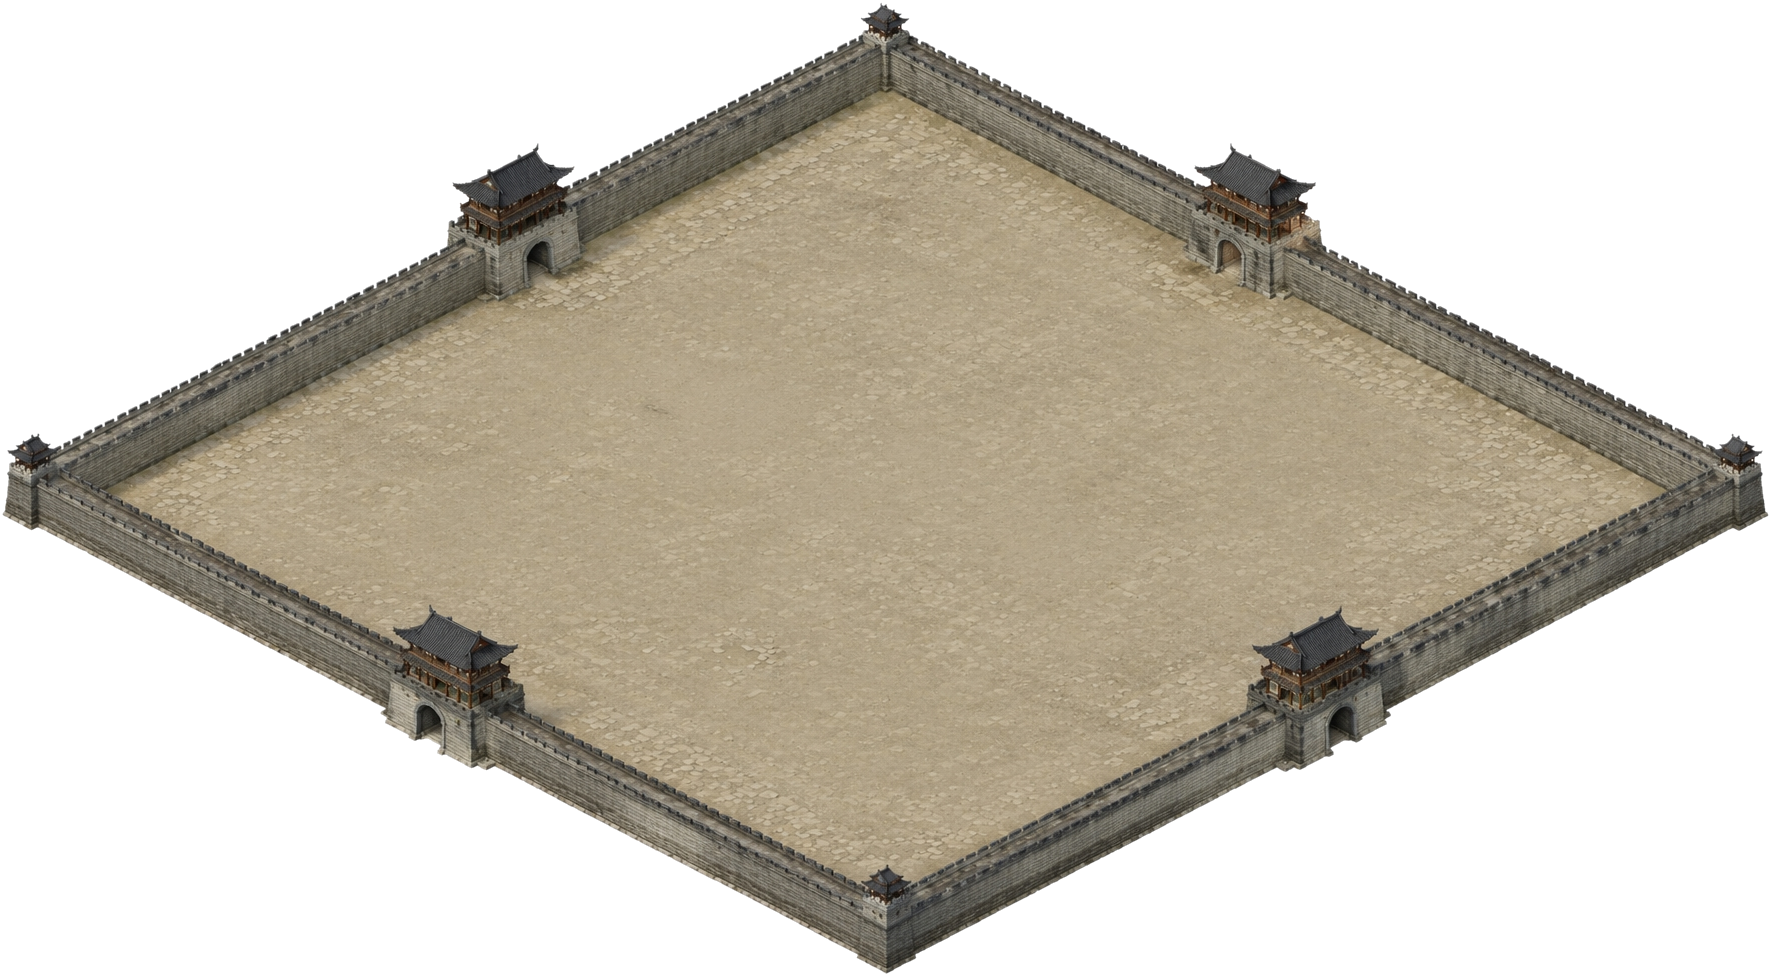
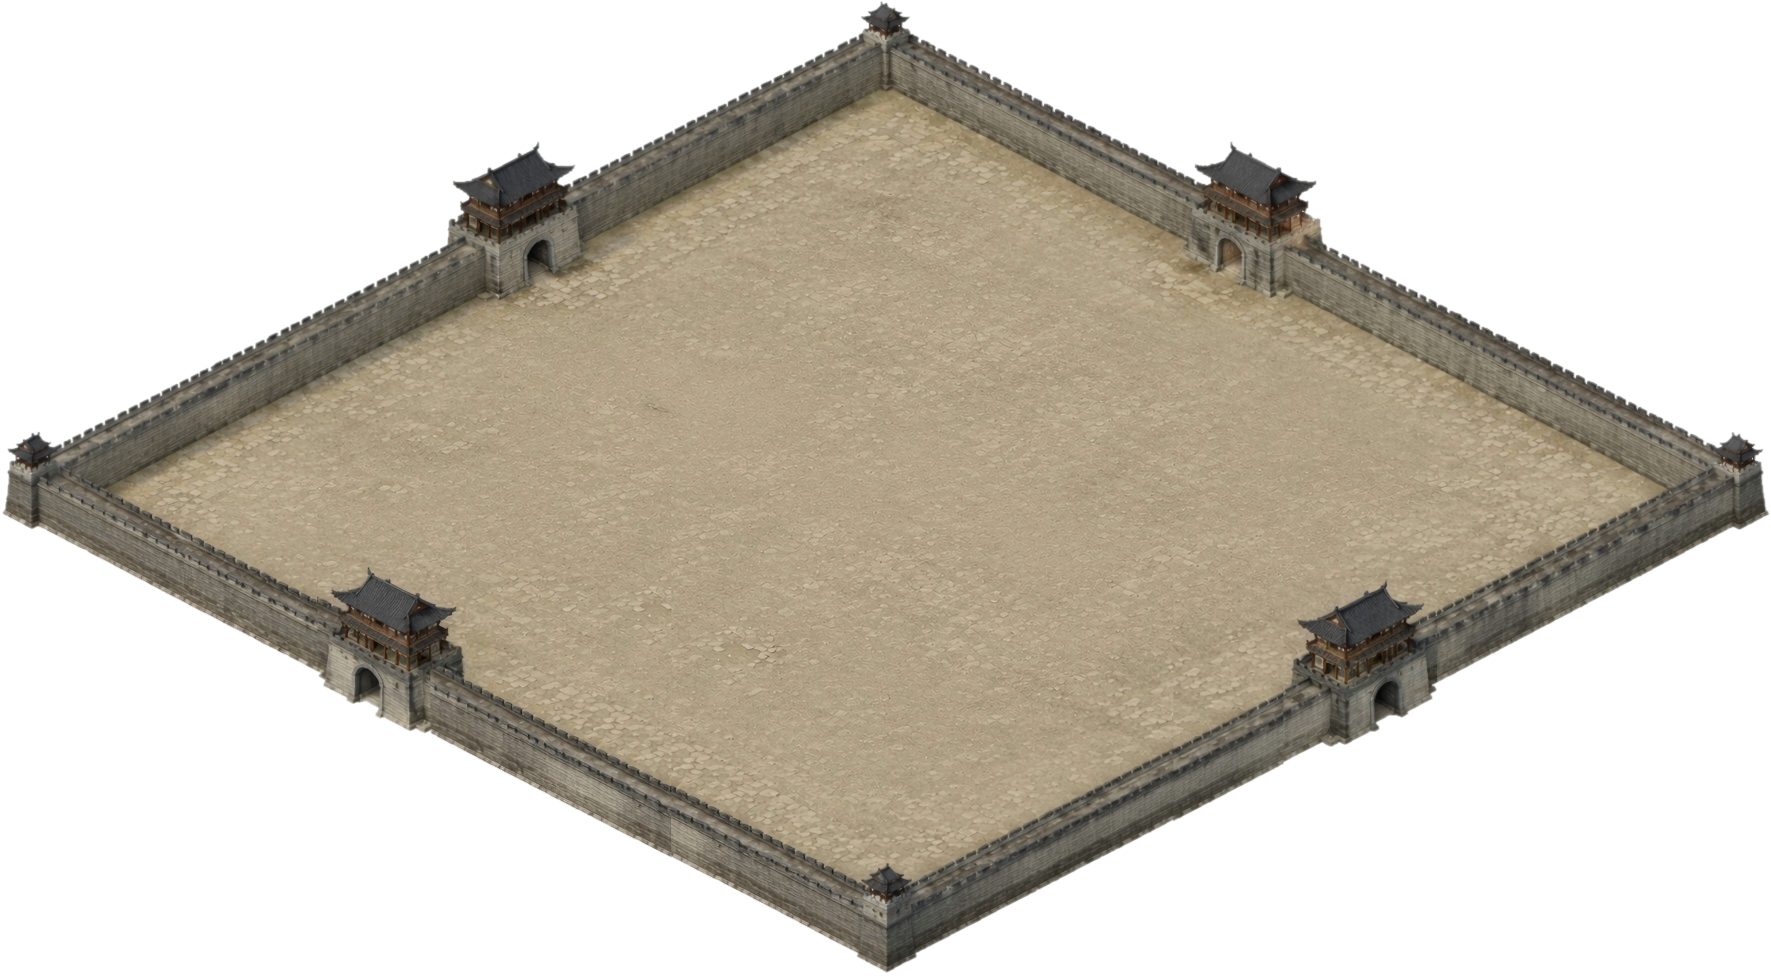
地图

diff --git a/src/ui/views/city/city-view.ts b/src/ui/views/city/city-view.ts
@@ -15,7 +15,7 @@ import { renderCityStageScene } from "./city-stage-layout";
 import haozhouCityBackgroundUrl from "../../../../ui/background/upload_1784207698799091496 (1).png?url";
 import cityDiamondBaseTextureUrl from "../../../../ui/yuansu/菱形格子/20260716-111958.png?url";
 import cityDiamondForegroundWallUrl from "../../../../ui/yuansu/菱形格子/20260716-141239.png?url";
-import cityBuildingLeaderResidenceUrl from "../../../../ui/yuansu/菱形格子/jianglingfudi.png?url";
+import cityBuildingLeaderResidenceUrl from "../../../../ui/yuansu/菱形格子/upload_1784633870754903686.png?url";
 import cityBuildingKeepUrl from "../../../../ui/yuansu/菱形格子/shuaifu.png?url";
 import cityBuildingTeaHouseUrl from "../../../../ui/yuansu/菱形格子/chaguan.png?url";
 import cityBuildingMarketUrl from "../../../../ui/yuansu/菱形格子/huozhai.png?url";
@@ -161,8 +161,8 @@ const CITY_MAP_BUILDING_PROTOTYPES: CityMapBuildingPrototype[] = [
     imageUrl: cityBuildingLeaderResidenceUrl,
     baseX: 675,
     baseY: 455,
-    assetWidth: 1294,
-    assetHeight: 695,
+    assetWidth: 1259,
+    assetHeight: 859,
     renderScale: CITY_BUILDING_RENDER_SCALE,
     ringWidth: 132,
     ringHeight: 56,

diff --git a/src/styles/prototype.css b/src/styles/prototype.css
@@ -2235,20 +2235,12 @@
   display: inline-flex;
   align-items: center;
   justify-content: center;
-  min-width: 24px;
-  min-height: 68px;
-  padding: 6px 3px;
-  border: 1px solid rgb(236 198 104 / 72%);
-  border-radius: 999px;
-  background:
-    linear-gradient(
-      180deg,
-      rgb(43 72 66 / 86%),
-      rgb(18 44 41 / 88%)
-    );
-  box-shadow:
-    0 3px 8px rgb(0 0 0 / 18%),
-    inset 0 0 0 1px rgb(255 244 188 / 10%);
+  min-width: 28px;
+  min-height: 78px;
+  padding: 8px 5px;
+  border: 0;
+  background: url("../../ui/yuansu/菱形格子/img_v3_0213q_d39adb77-f101-4f6f-98b9-899e55f79ddg.png") center / 100% 100% no-repeat;
+  box-shadow: 0 4px 10px rgb(0 0 0 / 18%);
   color: #f9e4a8;
   font-family: var(--font-title);
   font-size: 0.74rem;
@@ -2266,11 +2258,9 @@
 
 .c-city-map-stage__building-label:hover,
 .c-city-map-stage__building-label:focus-visible {
-  border-color: rgb(255 224 128 / 92%);
   box-shadow:
     0 0 12px rgb(255 207 76 / 38%),
-    0 3px 8px rgb(0 0 0 / 18%),
-    inset 0 0 0 1px rgb(255 244 188 / 18%);
+    0 4px 10px rgb(0 0 0 / 18%);
   color: #fff1bd;
   filter: brightness(1.1);
 }
